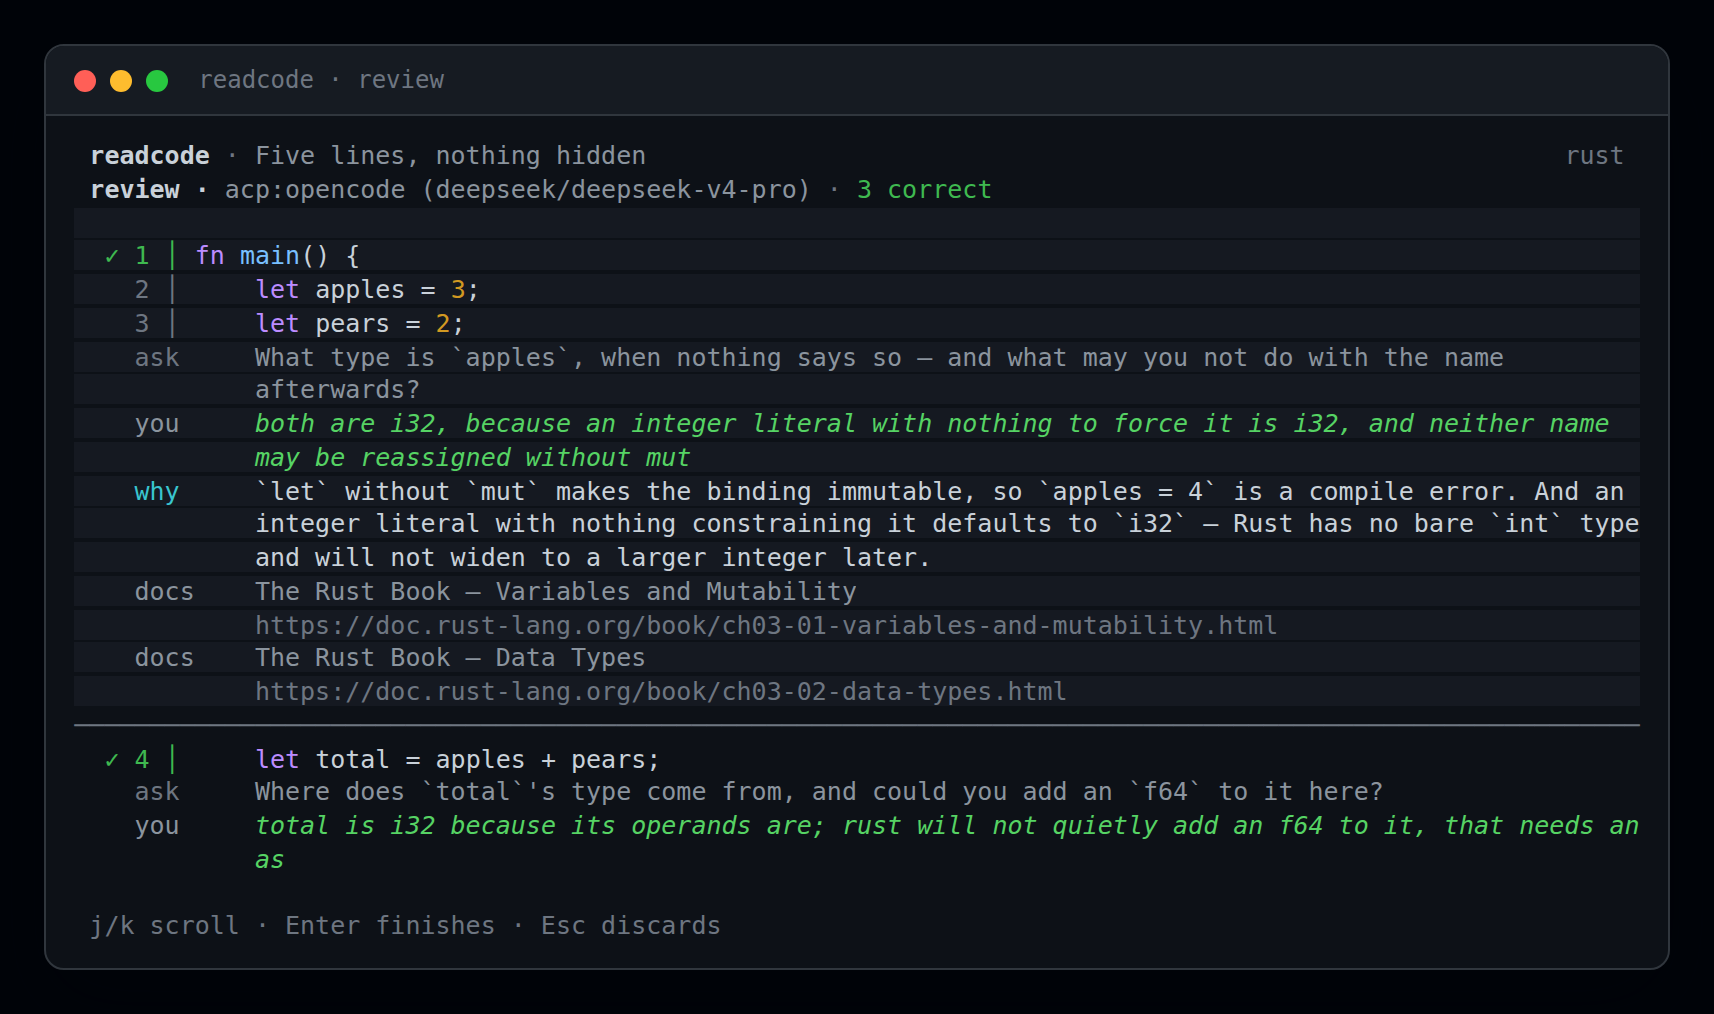
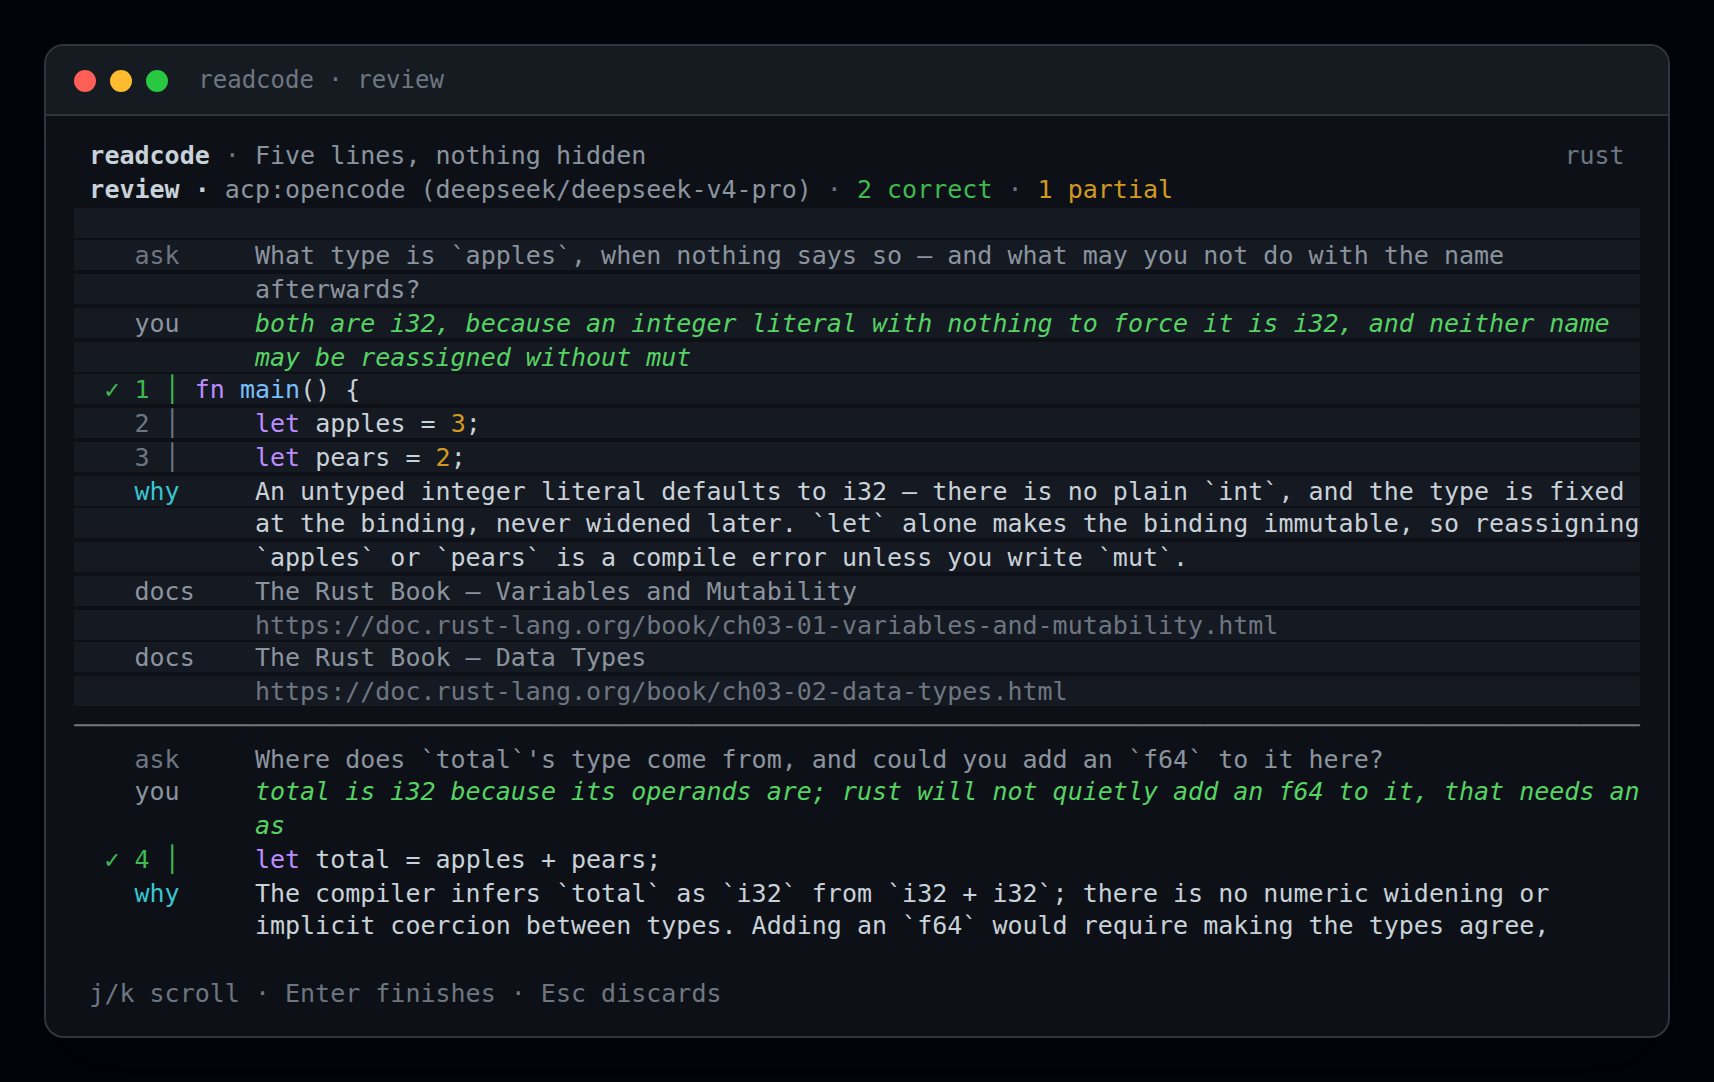
feat: question and answer above the code on the grading page; quieter guidance
Two things read wrong on screen.

**The grading page put the question and the answer under the code line.** The annotate view
had already been changed so a note sits above the span it covers, but the page you read
afterwards kept the old order: verdict on the code row, then `ask` and `you` underneath. It
now reads the way the sitting did — question, then your answer, then the code they are about
with the verdict on its first row, then `review`/`missed`/`why`/`docs`.

**The guidance line competed with the question.** "your words · Enter submits · Ctrl-J
newline · Ctrl-B back" was `Gray`, one step below the bold white question, so the two read as
one paragraph and the question was harder to find than the instructions about typing it. It is
the darkest text in the theme now, and only the question is bold.

Both renderers are unchanged otherwise: the plain view prints a header with the span instead
of code rows, so its order already matched.

diff --git a/src/tui/draw.rs b/src/tui/draw.rs
@@ -376,10 +376,12 @@ fn draw_ask(frame: &mut Frame, app: &App, area: Rect) {
         .wrap(Wrap { trim: false }),
         question,
     );
+    // Quiet print, not competing with the question above it: the question is
+    // bold and this is the darkest thing on screen.
     frame.render_widget(
         Paragraph::new(Line::from(Span::styled(
             " your words · Enter submits · Ctrl-J newline · Ctrl-B back",
-            Theme::dim(),
+            Theme::hint(),
         ))),
         hint,
     );
@@ -557,18 +559,6 @@ fn draw_review(frame: &mut Frame, app: &App, area: Rect) {
         } else {
             rows.push(Line::raw(""));
         }
-        // The verdict sits on the first code row, so one prompt is one block
-        // rather than a header followed by the code it describes.
-        code_rows(
-            &mut rows,
-            &tokens,
-            gutter,
-            prompt.start,
-            prompt.end,
-            verdict_mark(graded.verdict),
-            graded.verdict,
-        );
-
         // The question belongs here: without it "you" is an answer to
         // something the learner has to remember from before the grading.
         labelled(
@@ -587,6 +577,19 @@ fn draw_review(frame: &mut Frame, app: &App, area: Rect) {
             .filter(|text| !text.is_empty())
             .unwrap_or("(left blank)");
         labelled(&mut rows, "you", answer, Theme::dim(), Theme::note(), width);
+
+        // The question and the answer come first, then the code they are about
+        // with the verdict on its first row: the same order as the notes written
+        // during the sitting, so the page reads the way the sitting did.
+        code_rows(
+            &mut rows,
+            &tokens,
+            gutter,
+            prompt.start,
+            prompt.end,
+            verdict_mark(graded.verdict),
+            graded.verdict,
+        );
 
         {
             // Even a correct answer gets its explanation: it may have been a guess,

diff --git a/README.md b/README.md
@@ -167,13 +167,14 @@ what was right, what was thin, and what you missed:
 
 ![The review: for each prompt, the code it was about, your answer, the verdict, what you missed, and the explanation](docs/tui-review.png)
 
-Each entry keeps the code beside your answer, because the moment you want to know *why*
-something was wrong is the moment you need to see what you were looking at. The verdict
-rides the line it is about, so one prompt is one block rather than a heading followed by
-the code it describes:
+Each entry keeps the code under your answer, because the moment you want to know *why*
+something was wrong is the moment you need to see what you were looking at. The question and
+your answer come first, then the code with the verdict on its first row — the same order as
+the notes you wrote during the sitting:
 
+- `ask` — the question you were answering, then `you` — your words, both above the code they
+  are about, so an entry reads the way the sitting did
 - `✓ 4 │ let total = apples + pears;` — the mark is the verdict, the line is what you read
-- `you` — your words, under the code they explain
 - `review` — only when something was off: what the answer did and did not say
 - `missed · …` — the points it left out; a concept the reviewer could not judge from that
   answer is left out rather than marked "unknown", since a line is only asked to prove what
